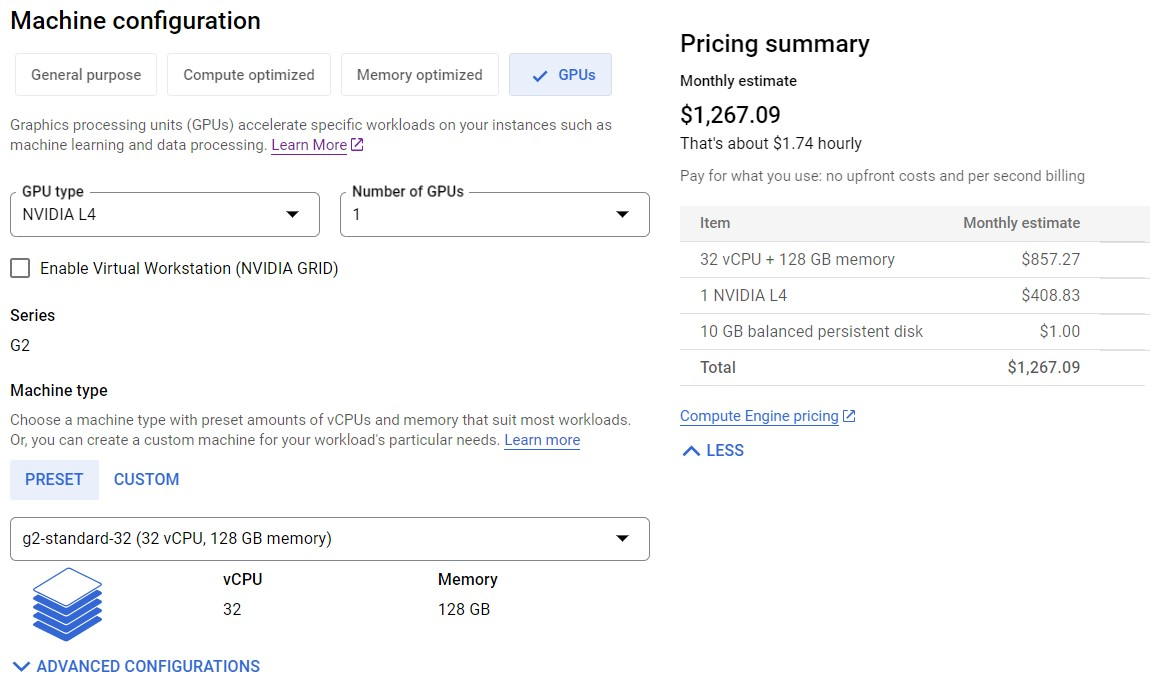
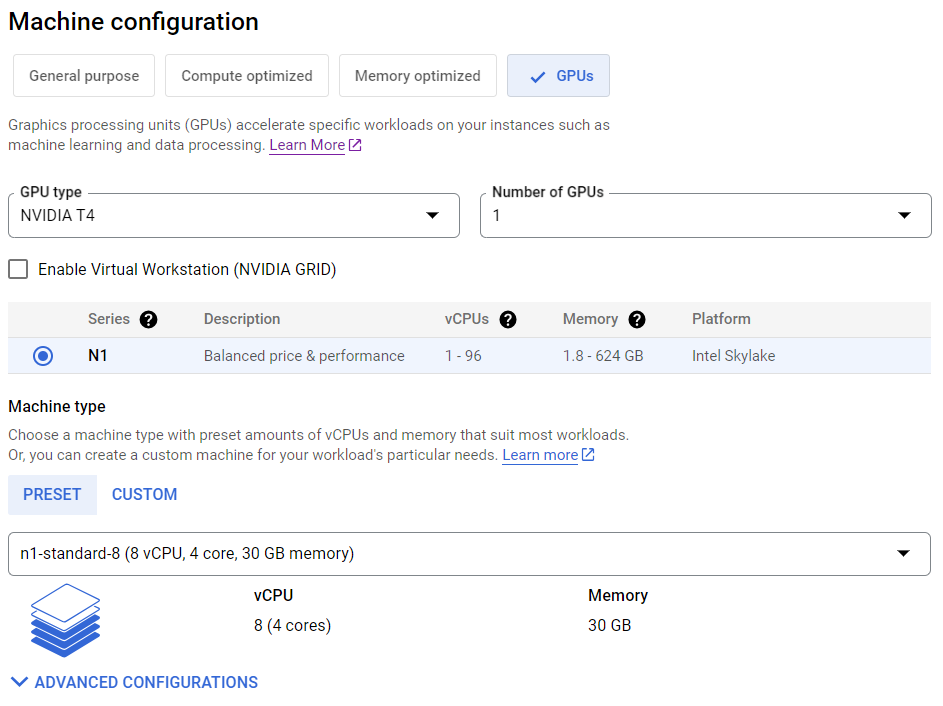
Improved content&structure

diff --git a/content/building-blocks/automate-and-execute-your-work/reproducible-work/config-VM-GCP.md b/content/building-blocks/automate-and-execute-your-work/reproducible-work/config-VM-GCP.md
@@ -6,26 +6,32 @@ weight: 2
 author: "Fernando Iscar"
 authorlink: "https://www.linkedin.com/in/fernando-iscar/"
 draft: false
-date: 2023-06-05
+date: 2023-06-05 #updated 2023-08-23
 aliases: 
   - /run/vm-on-google-cloud
   - /handle/memory-issues
   - /import/heavy-files
 ---
 
+# Learning Goals
+
+- Establish and tailor a VM instance in Google Cloud with optimized configurations.
+- Use Docker and Google Colab for efficient file handling.
+- Monitor system resources and implement strategies to handle memory challenges.
+
 # Gear up your code with Google Cloud VMs
 
-Tired of encountering memory or power constraints while running your code or waiting long due to your machine's limited capacity? In this building block, you'll discover how to create and configure a simple and robust VM instance in **Google Cloud**, designed to overcome these limitations. Say goodbye to obstacles and embrace seamless computing with this comprehensive guide.
+In this building block, you will discover how to create and configure a simple and robust VM instance in [Google Cloud](https://cloud.google.com/?hl=en), designed to overcome memory or power constraints limitations. Say goodbye to obstacles and embrace seamless computing with this comprehensive guide.
 
 ## Initialize a new instance
 
 ### Create a Google Cloud account
 
-First of all, we will need to have a [Google Cloud](https://cloud.google.com/?hl=en) account and a project created in order to create an instance. After this is done, we can go to the welcome page and click on **Create a VM**.
+First of all, we will need to have a Google Cloud account and a project created in order to create an instance. After this is done, we can go to the welcome page and click on **"Create a VM"**.
 
 <p align = "center">
-<img src = "../img/welcome.png" width="700" style="border:1px solid black;">
-<figcaption> Click the button to create a new instance</figcaption>
+<img src = "../img/welcome1.png" width="600" style="border:1px solid black;">
+<figcaption> Click in "Create a VM"</figcaption>
 </p>
 
 ### Set up your Virtual Machine
@@ -40,26 +46,38 @@ You'll encounter four primary machine categories to select from:
 
 - **Memory-optimized:** Specifically designed for memory-intensive workloads, this category offers a higher memory capacity per core compared to other machine families. With the ability to support up to 12 TB of memory, it empowers applications that heavily rely on data storage and manipulation, enabling efficient data processing and analysis.
 
-- **Accelerator-optimized:** The perfect choice for massively parallelized Compute Unified Device Architecture ([CUDA](https://developer.nvidia.com/cuda-zone#:~:text=CUDA%C2%AE%20is%20a%20parallel,harnessing%20the%20power%20of%20GPUs.)) compute workloads, such as machine learning and high-performance computing. This category is specifically tailored for workloads that demand GPU acceleration, ensuring exceptional performance for tasks that require substantial graphical processing power and parallel computing capabilities.
+- **Accelerator-optimized (GPUs):** The perfect choice for massively parallelized Compute Unified Device Architecture ([CUDA](https://developer.nvidia.com/cuda-zone#:~:text=CUDA%C2%AE%20is%20a%20parallel,harnessing%20the%20power%20of%20GPUs.)) compute workloads, such as machine learning and high-performance computing. This category is specifically tailored for workloads that demand GPU acceleration, ensuring exceptional performance for tasks that require substantial graphical processing power and parallel computing capabilities.
 
 {{% warning %}}
 
-Save on unnecessary costs! GPU-enabled VMs are vital for deep learning tasks like language models. However, for other uses, GPUs are redundant and increase expenses. See an example on how suboptimal GPU usage can slow compute time [here](https://rstudio-pubs-static.s3.amazonaws.com/15192_5965f6c170994ebb972deaf18f1ddf34.html).
+**Save on unnecessary costs!** 
+
+GPU-enabled VMs are vital for deep learning tasks like language models. However, for other uses, GPUs are redundant and increase expenses. 
+
+See an example on how suboptimal GPU usage can slow compute time [here](https://rstudio-pubs-static.s3.amazonaws.com/15192_5965f6c170994ebb972deaf18f1ddf34.html).
 
 {{% /warning %}}
 
-A good choice to beat memory hitches and supercharge processing could be going with an **NVIDIA L4 g2-standard-32** machine. It's packed with 128GB of RAM and a GPU, perfect for heavyweight computing, but still cost-friendly.
+A good choice to balance between price and performance could be selecting an **NVIDIA T4 n1-standard-8** machine. It's packed with 30GB of RAM and a GPU. If we would need more vCPUs or memory, we can improve it by selecting a customized version, under the **"Machine type"** header.
 
-While we won't dive into all the configuration bells and whistles here, remember Google Cloud is your playground for [custom-tailoring your instance](https://cloud.google.com/compute/docs/machine-resource) just the way it better suits your needs.
 
 <p align = "center">
-<img src = "../img/machine-config.png" width="800" style="border:1px solid black;">
+<img src = "../img/machine-config.png" width="700" style="border:1px solid black;">
 <figcaption> Adjust the machine configuration to your needs</figcaption>
 </p>
 
+While we won't dive into all the configuration bells and whistles here, remember Google Cloud is your playground for [custom-tailoring your instance](https://cloud.google.com/compute/docs/machine-resource) just the way it better suits your needs.
+
 {{% tip %}}
 
-In the top right corner, you'll see a real-time **pricing summary**. As you adjust your instance's configuration, the cost estimate updates accordingly. Use this feature to balance your budget and computational needs, and find the optimal setup that suits your specific requirements.
+**Balance your budget and computational needs**
+
+In the top right corner, you'll see a real-time **pricing summary**. As you adjust your instance's configuration, you'll be able to find the optimal setup that suits your specific requirements.
+
+<p align = "center">
+<img src = "../img/price-vm.png" width="350" style="border:1px solid black;">
+<figcaption> Pricing summary</figcaption>
+</p>
 
 {{% /tip %}}
 
@@ -74,19 +92,18 @@ A bigger boot disk equals more space for data and apps. So, if you're playing wi
 <figcaption> Boot disk configuration summary</figcaption>
 </p>
 
-{{% tip %}}
 
 If you're considering integrating GPUs into your instance, it's recommended to switch the default boot disk from **Debian** to **Ubuntu**.
 
 **Ubuntu** simplifies the installation of proprietary software drivers and firmware, making the process of installing necessary [NVIDIA drivers](https://docs.nvidia.com/datacenter/tesla/tesla-installation-notes/index.html#ubuntu-lts) for GPU utilization significantly smoother. This could save you time and effort in the long run.
 
-{{% /tip %}}
 
-In the [Firewall Rules](https://cloud.google.com/compute/docs/samples/compute-firewall-create) section, you'll see the default settings that manage your network traffic flow. HTTP or HTTPS? Go for HTTPS whenever you can. It's the safer bet, wrapping your data transfers in an encryption layer for added security. 
+As you scroll down, you will find the [Firewall Rules](https://cloud.google.com/compute/docs/samples/compute-firewall-create) section. Here, you will see the default settings that manage your network traffic flow. HTTP or HTTPS? Go for HTTPS whenever you can. It's the safer bet, wrapping your data transfers in an encryption layer for added security. 
 
 However, many developers activate both HTTP and HTTPS for broader compatibility, handling secure (HTTPS) and insecure (HTTP) requests alike. But let's keep it modern and secure, HTTPS should be your go-to, especially when handling sensitive data.
 
 {{% warning %}}
+**Custom firewall rules?**
 
 Beyond the standard rules, you can also craft custom firewall rules in **Google Cloud**. These can be shaped to match your individual security needs and traffic flow. But be cautious, as incorrect firewall configurations can either expose your instance to threats or obstruct valid traffic.
 
@@ -111,17 +128,18 @@ It's worth noting that the supplementary information provided there regarding th
 
 In the moment you open your Jupyter notebook window with the instance running, you'll see its directory is empty. Is it the time to import the files we want to work with. 
 
-The common way would be to import then via the **Upload file** button on the top-right corner of our commands prompt. Nonetheless, if the files are heavy, this would either take an eternity or probably incurre in a connection error after some time. Hence, What can we do? We can use **Google Colab** as a bridge to send the files from **Google Drive** into our **GCS bucket**.
+The common way would be to import then via the **Upload file** button on the top-right corner of our commands prompt. Nonetheless, if the files are heavy, this would either take an eternity or probably incurre in a connection error after some time. Hence, What can we do? We can use **Google Colab** as a bridge to send the files from **Google Drive** into our **GCS bucket**!
 
 It is suggested to utilize the same account for all Google tools. Doing so simplifies the authentication process and prevents potential permission issues, fostering a more seamless workflow.
 
-{{% warning %}}
+{{% tip %}}
+**Copy all directories you need**
 
 When syncronizing the bucket with your directory inside the container, if your bucket contains other directories as well, the command `$ sudo gcsfuse -o allow_other your-bucket volume_path/new_dir/` might not copy those directories. 
 
 Try `$ sudo gcsfuse --implicit-dirs -o allow_other your-bucket volume_path/new_dir/` to make sure the implicit directories are also included, if you want them to.
 
-{{% /warning %}}
+{{% /tip %}}
 
 To start with, make sure your bucket is created. To do so, you can follow [these](https://cloud.google.com/storage/docs/creating-buckets)  short guidelines.
 
@@ -172,10 +190,14 @@ The output of this last cell will say at the end *"Operation completed..."*.
 
 Now your data should be available in your **GCS bucket** and can be accessed from your Google Cloud instance. Refresh your bucket webpage and confirm it.
 
-{{% tip %}}
 After following the steps outlined so far, you will be able to import your files and execute your code within the Docker container.
 
-To ensure that GPUs are accessible for your tasks, you can use specific commands depending on the framework you're using. For instance, in `PyTorch`, the command `torch.cuda.is_available()` can be used to check if CUDA (GPU acceleration) is currently available, returning a boolean value.
+{{% tip %}}
+**GPUs ready?**
+
+To ensure that GPUs are accessible for your tasks, you can use specific commands depending on the framework you're using. 
+
+For instance, in `PyTorch`, the command `torch.cuda.is_available()` can be used to check if CUDA (GPU acceleration) is currently available, returning a boolean value.
 {{% /tip %}}
 
 ## Extra: Handling memory allocation issues
@@ -186,7 +208,7 @@ These situations can give rise to runtime errors when the CPU cannot allocate th
 
 ### Monitor resources usage
 
-Therefore, a crucial part of managing any computational task is continuously monitoring your system's resource usage. This way, you can promptly identify potential bottlenecks and inefficiencies and address them proactively.
+A crucial part of managing any computational task is continuously monitoring your system's resource usage. This way, you can promptly identify potential bottlenecks and inefficiencies and address them proactively.
 
 In Linux-based environments, such as **Ubuntu**, [htop](https://github.com/htop-dev/htop) and [nvtop](https://github.com/Syllo/nvtop) are two widely used tools for tracking CPU and GPU usage, respectively.
 
@@ -321,8 +343,7 @@ In Python, this translates to choosing dictionaries over lists when wrestling wi
 
 - **Parallelizing your Work:** Divide the task among multiple identical instances, each running a part of the code. This approach is particularly useful when your code involves training or using multiple machine learning models. For example, if you have three BERT models to run, you could use three instances.
 
-Beyond these strategies, it's always possible to leverage the scalability and flexibility of cloud services such as Google Cloud. These services allow for a dynamic allocation of resources according to your needs. 
-
+Remember that beyond these strategies, it's always possible to leverage the scalability and flexibility of cloud services such as Google Cloud. These services allow for a dynamic allocation of resources according to your needs. 
 
 ## Additional Resources
 
